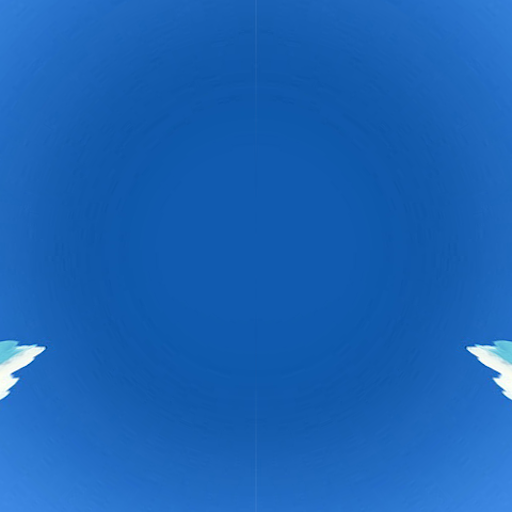
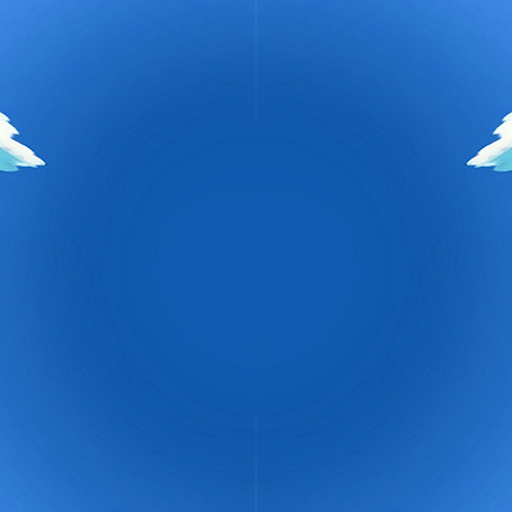
Cambio al custom skybox

diff --git a/demo/demo.js b/demo/demo.js
@@ -50,28 +50,33 @@ function setUpWebGL() {
 
     faceInfos = [
         {
-            target: gl.TEXTURE_CUBE_MAP_POSITIVE_X,
-            url: 'https://raw.githubusercontent.com/santi-alem/final-fcg/demo/demo/models/skybox/front.png',
-        },
-        {
-            target: gl.TEXTURE_CUBE_MAP_NEGATIVE_X,
-            url: 'https://webglfundamentals.org/webgl/resources/images/computer-history-museum/neg-x.jpg',
-        },
-        {
             target: gl.TEXTURE_CUBE_MAP_POSITIVE_Y,
-            url: 'https://webglfundamentals.org/webgl/resources/images/computer-history-museum/pos-y.jpg',
+            url: 'https://raw.githubusercontent.com/santi-alem/final-fcg/demo/demo/models/skybox/top.png',
+
         },
         {
             target: gl.TEXTURE_CUBE_MAP_NEGATIVE_Y,
-            url: 'https://webglfundamentals.org/webgl/resources/images/computer-history-museum/neg-y.jpg',
+            url: 'https://raw.githubusercontent.com/santi-alem/final-fcg/demo/demo/models/skybox/bottom.png',
+
+        },
+        {
+            target: gl.TEXTURE_CUBE_MAP_POSITIVE_X,
+            url: 'https://raw.githubusercontent.com/santi-alem/final-fcg/demo/demo/models/skybox/right.png',
+
+        },
+        {
+            target: gl.TEXTURE_CUBE_MAP_NEGATIVE_X,
+            url: 'https://raw.githubusercontent.com/santi-alem/final-fcg/demo/demo/models/skybox/left.png',
         },
         {
             target: gl.TEXTURE_CUBE_MAP_POSITIVE_Z,
-            url: 'https://webglfundamentals.org/webgl/resources/images/computer-history-museum/pos-z.jpg',
+            url: 'https://raw.githubusercontent.com/santi-alem/final-fcg/demo/demo/models/skybox/front.png',
+
         },
         {
             target: gl.TEXTURE_CUBE_MAP_NEGATIVE_Z,
-            url: 'https://webglfundamentals.org/webgl/resources/images/computer-history-museum/neg-z.jpg',
+            url: 'https://raw.githubusercontent.com/santi-alem/final-fcg/demo/demo/models/skybox/back.png',
+
         },
     ];
     setSkyBoxTexture();
@@ -79,8 +84,8 @@ function setUpWebGL() {
     set_depth_buffer();
     setSettingUI();
     // Cargamos modelos
-     LoadObj('https://raw.githubusercontent.com/santi-alem/final-fcg/demo/demo/models/enano.obj', 'https://raw.githubusercontent.com/santi-alem/final-fcg/demo/demo/models/enano_tex.png', [1, -0.5, 0], [0, 0, 0], [0.5, 0.5, 0.5])
-     LoadObj('https://raw.githubusercontent.com/santi-alem/final-fcg/demo/demo/models/the-adventure-zone-taako.obj', 'https://raw.githubusercontent.com/santi-alem/final-fcg/demo/demo/models/tako_tex.png', [0, 0, 0], [0, 0, 0], [1, 1, 1])
+    LoadObj('https://raw.githubusercontent.com/santi-alem/final-fcg/demo/demo/models/enano.obj', 'https://raw.githubusercontent.com/santi-alem/final-fcg/demo/demo/models/enano_tex.png', [1, -0.5, 0], [0, 0, 0], [0.5, 0.5, 0.5])
+    LoadObj('https://raw.githubusercontent.com/santi-alem/final-fcg/demo/demo/models/the-adventure-zone-taako.obj', 'https://raw.githubusercontent.com/santi-alem/final-fcg/demo/demo/models/tako_tex.png', [0, 0, 0], [0, 0, 0], [1, 1, 1])
     LoadObj('https://raw.githubusercontent.com/santi-alem/final-fcg/demo/demo/models/plano.obj', 'https://raw.githubusercontent.com/santi-alem/final-fcg/demo/demo/models/teapot.jpg', [0, -1, 0], [0, 0, 0], [1.75, 1.75, 1.75])    // LoadObj('https://raw.githubusercontent.com/santi-alem/final-fcg/demo/demo/models/moon-castle.obj', 'http://i.pinimg.com/originals/44/b1/5a/44b15ad5adfc1f0b195a8fe3c2c09033.jpg', [0, 0, 0],[0,0,0],[2,2,2])
 
 }
@@ -98,7 +103,9 @@ function render() {
     // Rendereamos la escena
     drawScene();
 }
+
 let lightRotation;
+
 function drawScene() {
     // Draw with the toon shader
     let perspectiveMatrix = ProjectionMatrix(canvas, transZ);
@@ -121,7 +128,7 @@ function drawScene() {
     );
     // let mv = GetModelViewMatrix(0, 0, transZ, rotX, autorot + rotY);
     mv = m4.xRotate(mv, rotX)
-    mv = m4.yRotate(mv, rotY  + autorot)
+    mv = m4.yRotate(mv, rotY + autorot)
     // Esto es para checkear que la perspectiva de la luz
     // mv = lightWorldMatrix;
     // perspectiveMatrix = lightProjectionMatrix;
@@ -165,7 +172,7 @@ function setSkyBoxTexture() {
         const image = new Image();
         image.src = url;
         image.crossOrigin = "anonymous";
-        image.addEventListener('load', function() {
+        image.addEventListener('load', function () {
             // Now that the image has loaded make copy it to the texture.
             gl.bindTexture(gl.TEXTURE_CUBE_MAP, skyTexture);
             gl.texImage2D(target, level, internalFormat, format, type, image);
@@ -227,7 +234,7 @@ function drawShadows(lightWorldMatrix, lightProjectionMatrix) {
     // Seteamos el viewport del tamaño de la textura
     gl.viewport(0, 0, depthTextureSize, depthTextureSize);
     // gl.clearColor(0.1, 0.2, 0.5, 1);
-    gl.clear( gl.DEPTH_BUFFER_BIT);
+    gl.clear(gl.DEPTH_BUFFER_BIT);
     // Seteamos las variables uniformes
     webglUtils.setUniforms(shadowProgramInfo, {
         // lightProjectionMatrix * inverse(lightWorldMatrix) * m4.translation(0, 0, 0)
@@ -256,7 +263,7 @@ function drawModels(lightWorldMatrix, lightProjectionMatrix, mv, mvp, perspectiv
     textureMatrix = m4.multiply(
         textureMatrix,
         lightWorldMatrix);
-        // m4.inverse(lightWorldMatrix));
+    // m4.inverse(lightWorldMatrix));
     // Seteamos todas las uniformes
     let programUniforms = {
         viewMatrix: mv,
